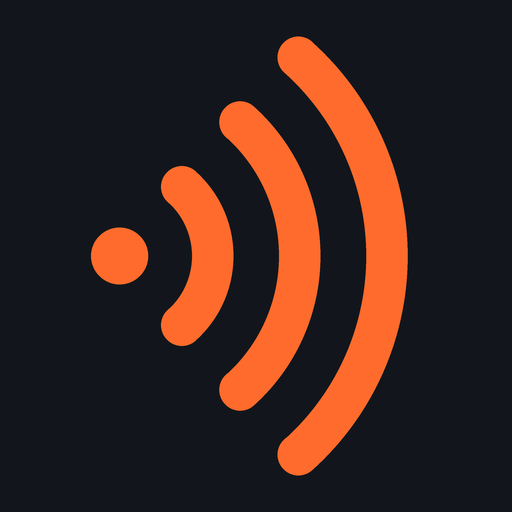
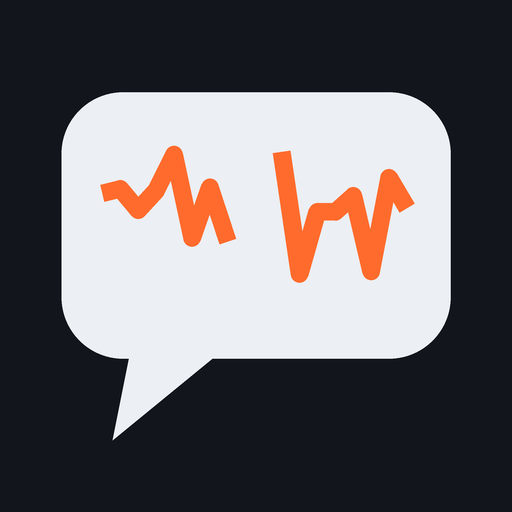
Byt namn till Dålig täckning / Bad Line och ny ikon (pratbubbla)
- Appnamn, manifest, integritetspolicy, butikstexter och guide uppdaterade
- Första ljudet heter nu Hackig linje / Choppy line
- Ikon C som appikon, ny funktionsgrafik

Claude-Session: https://claude.ai/code/session_01AwVcDu5zv7prsN5VKHxPky

diff --git a/index.html b/index.html
@@ -8,7 +8,7 @@
 <link rel="manifest" href="manifest.webmanifest">
 <link rel="icon" type="image/png" sizes="192x192" href="icons/icon-192.png">
 <link rel="apple-touch-icon" href="icons/apple-touch-icon.png">
-<title>Störsändaren</title>
+<title>Dålig täckning</title>
 <meta name="claude:viewport-fit-sides" content="cover">
 <link rel="preconnect" href="https://fonts.googleapis.com">
 <link rel="preconnect" href="https://fonts.gstatic.com" crossorigin>
@@ -162,7 +162,7 @@ h1{font-size:clamp(56px,18vw,130px);line-height:.85;white-space:nowrap;padding-r
   <header class="brand">
     <button type="button" class="about-btn" id="aboutBtn" data-i18n="about">Om</button>
     <div class="brand-text">
-      <h1><span data-i18n="t1">Stör</span><span data-i18n="t2">sändaren</span></h1>
+      <h1><span data-i18n="t1">Dålig </span><span data-i18n="t2">täckning</span></h1>
       <div class="sub">
       <div class="langs" role="group" aria-label="Språk / Language">
         <button type="button" class="flag" data-lang="sv" aria-label="Svenska" aria-pressed="true"><svg viewBox="0 0 16 10" aria-hidden="true"><rect width="16" height="10" fill="#006AA7"/><rect x="5" width="2" height="10" fill="#FECC00"/><rect y="4" width="16" height="2" fill="#FECC00"/></svg></button>
@@ -282,7 +282,7 @@ function crushCurve(steps){const n=2048,c=new Float32Array(n);for(let i=0;i<n;i+
 function clicks(out,t,n,gain=.6){for(let i=0;i<n;i++)burst(out,t+R(0,.25),.004,{type:'highpass',f:R(400,2500),gain:gain*R(.4,1),attack:.0005})}
 
 const scenes=[
- {id:'tackning',name:'Dålig täckning',what:'Linjen hackar sönder i robotgröt, digitala smällar och tvär tystnad.',spec:'Talkodek i 20 ms-ramar',
+ {id:'tackning',name:'Hackig linje',what:'Linjen hackar sönder i robotgröt, digitala smällar och tvär tystnad.',spec:'Talkodek i 20 ms-ramar',
   setup(out,nodes){return{bed:bed(out,nodes,{f:1200,q:.5,gain:.03})}},
   step(out,t,s){
     const r=Math.random(),F=.02;
@@ -519,12 +519,12 @@ function dropCall(mode,btn){
 }
 
 const I18N={
- sv:{title:'Störsändaren',eyebrow:'Soundboard för samtal du inte vill ha',t1:'Stör',t2:'sändaren',vol:'Volym',drop:'Fejka avbrott',busy:'Upptagetton',sit:'Nätverksfel',sitS:'tre stigande toner',about:'Om',aboutTitle:'Så funkar det',close:'Stäng',madeBy:'Gjord av',contact:'Kontakt',privacy:'Integritetspolicy',version:'Version',disclaimer:'Appen spelar bara upp ljud i högtalaren. Den påverkar inte telefonnätet, samtal eller andra enheter.',
+ sv:{title:'Dålig täckning',eyebrow:'Soundboard för samtal du inte vill ha',t1:'Dålig ',t2:'täckning',vol:'Volym',drop:'Fejka avbrott',busy:'Upptagetton',sit:'Nätverksfel',sitS:'tre stigande toner',about:'Om',aboutTitle:'Så funkar det',close:'Stäng',madeBy:'Gjord av',contact:'Kontakt',privacy:'Integritetspolicy',version:'Version',disclaimer:'Appen spelar bara upp ljud i högtalaren. Den påverkar inte telefonnätet, samtal eller andra enheter.',
    silent:'Tyst',pick:'Välj ett eller flera ljud',onair:'Sänder nu',mixing:n=>`Mixar ${n} ljud`,dropping:'Avbrott',breaking:'Samtalet bryts…',ch:'KANAL',live:'SÄNDER'},
- en:{title:'Call Jammer',eyebrow:"Soundboard for calls you don't want",t1:'Call ',t2:'Jammer',vol:'Volume',drop:'Fake a dropped call',busy:'Busy tone',sit:'Network error',sitS:'three rising tones',about:'About',aboutTitle:'How it works',close:'Close',madeBy:'Made by',contact:'Contact',privacy:'Privacy policy',version:'Version',disclaimer:'The app only plays sound through the speaker. It does not affect the phone network, calls or other devices.',
+ en:{title:'Bad Line',eyebrow:"Soundboard for calls you don't want",t1:'Bad ',t2:'Line',vol:'Volume',drop:'Fake a dropped call',busy:'Busy tone',sit:'Network error',sitS:'three rising tones',about:'About',aboutTitle:'How it works',close:'Close',madeBy:'Made by',contact:'Contact',privacy:'Privacy policy',version:'Version',disclaimer:'The app only plays sound through the speaker. It does not affect the phone network, calls or other devices.',
    silent:'Silent',pick:'Pick one or more sounds',onair:'On air',mixing:n=>`Mixing ${n} sounds`,dropping:'Dropping',breaking:'Call breaking up…',ch:'CHANNEL',live:'ON AIR'}
 };
-const SCENE_EN={"tackning": {"name": "Bad reception", "what": "The line breaks up into robot mush, digital bursts and sudden silence.", "spec": "Voice codec in 20 ms frames"}, "tag": {"name": "Train crash", "what": "A train crashes at full speed. Cars crumple, sheet metal folds and steel tears apart.", "spec": "4,000 tonnes of metal at 120 km/h"}, "rymd": {"name": "Space station", "what": "Digital interference and a shredded alien voice talking in the background.", "spec": "TDMA buzz 217 Hz · 3-bit voice"}, "metall": {"name": "Death metal", "what": "Violent attacks of distortion, bass blasts and screams that come and go.", "spec": "Tempo: none · Mercy: none"}, "storm": {"name": "Hailstorm", "what": "Things get smashed and torn apart at full force.", "spec": "Roof tiles · sheet metal · glass · timber"}, "bygg": {"name": "Construction site", "what": "Jackhammer, power drill, violent hammer blows and metal grinding on metal. Completely irregular.", "spec": "No rhythm. No finesse."}};
+const SCENE_EN={"tackning": {"name": "Choppy line", "what": "The line breaks up into robot mush, digital bursts and sudden silence.", "spec": "Voice codec in 20 ms frames"}, "tag": {"name": "Train crash", "what": "A train crashes at full speed. Cars crumple, sheet metal folds and steel tears apart.", "spec": "4,000 tonnes of metal at 120 km/h"}, "rymd": {"name": "Space station", "what": "Digital interference and a shredded alien voice talking in the background.", "spec": "TDMA buzz 217 Hz · 3-bit voice"}, "metall": {"name": "Death metal", "what": "Violent attacks of distortion, bass blasts and screams that come and go.", "spec": "Tempo: none · Mercy: none"}, "storm": {"name": "Hailstorm", "what": "Things get smashed and torn apart at full force.", "spec": "Roof tiles · sheet metal · glass · timber"}, "bygg": {"name": "Construction site", "what": "Jackhammer, power drill, violent hammer blows and metal grinding on metal. Completely irregular.", "spec": "No rhythm. No finesse."}};
 scenes.forEach(sc=>{sc.i18n={sv:{name:sc.name,what:sc.what,spec:sc.spec},en:SCENE_EN[sc.id]}});
 let lang='sv';
 try{const v=localStorage.getItem('lang');if(v==='sv'||v==='en')lang=v;else if(!/^sv\b/i.test(navigator.language||'sv'))lang='en'}catch(e){}
@@ -595,13 +595,13 @@ document.querySelectorAll('.dropbtn').forEach(b=>b.addEventListener('click',()=>
 document.getElementById('vol').addEventListener('input',e=>{if(master)master.gain.setTargetAtTime(+e.target.value,ctx.currentTime,.02)});
 
 // Stretch the eyebrow line to exactly the width of the big title
-// Scale STÖRSÄNDAREN to fill the banner width beside the About button
+// Scale the app name to fill the banner width beside the About button
 function fitEyebrow(){
   const h=document.querySelector('h1'),box=document.querySelector('.brand-text'),om=document.getElementById('aboutBtn');if(!h||!box)return;
   const omW=om?om.offsetWidth+12:0;h.style.setProperty('--om-w',omW+'px');
   h.style.fontSize='100px';
   const r=document.createRange();r.selectNodeContents(h);const tw=r.getBoundingClientRect().width;
-  const avail=box.clientWidth-omW;if(tw>0)h.style.fontSize=Math.min(170,Math.max(40,100*avail/tw)).toFixed(1)+'px';
+  const avail=box.clientWidth-omW;if(tw>0)h.style.fontSize=Math.min(170,Math.max(24,100*avail/tw)).toFixed(1)+'px';
 }
 setLang(lang);
 fitEyebrow();window.addEventListener('resize',fitEyebrow);

diff --git a/integritet.html b/integritet.html
@@ -3,7 +3,7 @@
 <head>
 <meta charset="utf-8">
 <meta name="viewport" content="width=device-width, initial-scale=1">
-<title>Störsändaren – integritetspolicy</title>
+<title>Dålig täckning – integritetspolicy</title>
 <style>
 :root{--bg:#F6F7F8;--ink:#18202B;--muted:#5A6472;--line:#C8CED6;--accent:#B83C0C}
 @media (prefers-color-scheme: dark){:root{--bg:#12161C;--ink:#E6E9ED;--muted:#8E98A5;--line:#2C3541;--accent:#FF6B2C;color-scheme:dark}}
@@ -26,11 +26,11 @@ ul{padding-left:20px}
 <nav><a href="#sv">Svenska</a><a href="#en">English</a></nav>
 
 <section id="sv" lang="sv">
-<h1>Integritetspolicy för Störsändaren</h1>
+<h1>Integritetspolicy för Dålig täckning</h1>
 <p class="meta">Gäller från 15 oktober 2026 · Utvecklare: Cajsa Gustafsson</p>
 
 <h2>Kort sagt</h2>
-<p>Störsändaren samlar inte in några personuppgifter. Det finns inget konto, ingen inloggning, ingen reklam och ingen spårning.</p>
+<p>Dålig täckning samlar inte in några personuppgifter. Det finns inget konto, ingen inloggning, ingen reklam och ingen spårning.</p>
 
 <h2>Vad appen gör</h2>
 <p>Appen skapar störningsljud direkt i telefonen och spelar upp dem i högtalaren. Den använder inte mikrofonen, kameran, kontakter, platsen eller telefonens samtalsfunktioner. Den påverkar inte telefonnätet, samtal eller andra enheter.</p>
@@ -62,11 +62,11 @@ ul{padding-left:20px}
 <hr>
 
 <section id="en" lang="en">
-<h1>Privacy policy for Call Jammer (Störsändaren)</h1>
+<h1>Privacy policy for Bad Line (Dålig täckning)</h1>
 <p class="meta">Effective 15 October 2026 · Developer: Cajsa Gustafsson</p>
 
 <h2>In short</h2>
-<p>Call Jammer does not collect any personal data. There is no account, no sign-in, no ads and no tracking.</p>
+<p>Bad Line does not collect any personal data. There is no account, no sign-in, no ads and no tracking.</p>
 
 <h2>What the app does</h2>
 <p>The app generates interference sounds on the phone and plays them through the speaker. It does not use the microphone, camera, contacts, location or the phone's calling features. It does not affect the phone network, calls or other devices.</p>

diff --git a/butik/BUTIKSTEXTER.md b/butik/BUTIKSTEXTER.md
@@ -6,20 +6,20 @@ Klistra in i Play Console under **Butiksnärvaro → Huvudbutiksinformation**. S
 
 **Appnamn** (max 30 tecken)
 ```
-Störsändaren
+Dålig täckning
 ```
 
 **Kort beskrivning** (max 80 tecken)
 ```
-Spela störningsljud under samtal – dålig täckning, tågkrasch, hagel och mer.
+Spela störningsljud under samtal – hackig linje, tågkrasch, hagel och mer.
 ```
 
 **Fullständig beskrivning** (max 4000 tecken)
 ```
-Någon ringer som du inte orkar prata med? Störsändaren är en soundboard med störningsljud som du spelar i bakgrunden, så att samtalet låter omöjligt att föra.
+Någon ringer som du inte orkar prata med? Dålig täckning är en soundboard med störningsljud som du spelar i bakgrunden, så att samtalet låter omöjligt att föra.
 
 Sex ljud som skapas live, så de aldrig låter likadant två gånger:
-• Dålig täckning – linjen hackar sönder i robotgröt, digitala smällar och tvär tystnad
+• Hackig linje – linjen hackar sönder i robotgröt, digitala smällar och tvär tystnad
 • Tågkrasch – 4000 ton metall i 120 km/h, oavbrutet
 • Rymdstation – digitala störningar och en sönderhackad utomjordisk röst
 • Dödsmetall – våldsamma attacker av distorsion utan takt och utan nåd
@@ -30,7 +30,7 @@ Mixa flera ljud samtidigt. Ljuden växlar oregelbundet mellan starkt, svagt och 
 
 Fejka avbrott: avsluta med upptagetton eller nätverksfelston, och lägg på.
 
-Så använder du den: håll telefonen med samtalet nära högtalaren på den enhet där Störsändaren spelar, eller sätt samtalet på högtalare. Ljudet är förstärkt för att höras tydligt i en annan telefon.
+Så använder du den: håll telefonen med samtalet nära högtalaren på den enhet där Dålig täckning spelar, eller sätt samtalet på högtalare. Ljudet är förstärkt för att höras tydligt i en annan telefon.
 
 • Ingen reklam
 • Inget konto
@@ -38,14 +38,14 @@ Så använder du den: håll telefonen med samtalet nära högtalaren på den enh
 • Fungerar utan internet
 • Svenska och engelska
 
-Störsändaren är en humorapp. Den spelar bara upp ljud i högtalaren och påverkar inte telefonnätet, samtal eller andra enheter.
+Dålig täckning är en humorapp. Den spelar bara upp ljud i högtalaren och påverkar inte telefonnätet, samtal eller andra enheter.
 ```
 
 ## English (en-US)
 
 **App name** (max 30 characters)
 ```
-Call Jammer: Fake Bad Signal
+Bad Line: Fake Bad Signal
 ```
 
 **Short description** (max 80 characters)
@@ -55,10 +55,10 @@ Play noise during calls – bad reception, train crash, hailstorm and more.
 
 **Full description** (max 4000 characters)
 ```
-Someone calling you don't feel like talking to? Call Jammer is a soundboard of interference sounds you play in the background, so the call sounds impossible to hold.
+Someone calling you don't feel like talking to? Bad Line is a soundboard of interference sounds you play in the background, so the call sounds impossible to hold.
 
 Six sounds generated live, so they never sound the same twice:
-• Bad reception – the line breaks up into robot mush, digital bursts and sudden silence
+• Choppy line – the line breaks up into robot mush, digital bursts and sudden silence
 • Train crash – 4,000 tonnes of metal at 120 km/h, nonstop
 • Space station – digital interference and a shredded alien voice
 • Death metal – violent attacks of distortion with no tempo and no mercy
@@ -69,7 +69,7 @@ Mix several sounds at once. They shift irregularly between loud, quiet and silen
 
 Fake a dropped call: finish with a busy tone or a network error tone, then hang up.
 
-How to use it: hold the phone with the call close to the speaker of the device playing Call Jammer, or put the call on speaker. The sound is boosted to come through clearly on another phone.
+How to use it: hold the phone with the call close to the speaker of the device playing Bad Line, or put the call on speaker. The sound is boosted to come through clearly on another phone.
 
 • No ads
 • No account
@@ -77,7 +77,7 @@ How to use it: hold the phone with the call close to the speaker of the device p
 • Works offline
 • English and Swedish
 
-Call Jammer is a humor app. It only plays sound through the speaker and does not affect the phone network, calls or other devices.
+Bad Line is a humor app. It only plays sound through the speaker and does not affect the phone network, calls or other devices.
 ```
 
 ## Övriga uppgifter

diff --git a/PUBLICERA.md b/PUBLICERA.md
@@ -1,4 +1,4 @@
-# Så ger du ut Störsändaren på Google Play
+# Så ger du ut Dålig täckning på Google Play
 
 Appen är en webbapp. Den läggs ut gratis på GitHub Pages, och PWABuilder gör en Play-fil (`.aab`) som öppnar den som en vanlig app i helskärm. Du behöver ingen Android Studio.
 
@@ -30,8 +30,8 @@ All kod blir då synlig för alla.
 2. Välj **Package for stores → Android → Google Play**.
 3. Fyll i:
    - **Package ID:** `io.github.cajsag73.storsandaren` (går inte att ändra senare)
-   - **App name:** `Störsändaren`
-   - **Launcher name:** `Störsändaren`
+   - **App name:** `Dålig täckning`
+   - **Launcher name:** `Dålig täckning`
    - **Version:** `1.0.0`, **Version code:** `1`
    - **Signing key:** *Create new*
 4. Ladda ner zip-filen.
@@ -50,7 +50,7 @@ Android visar ett adressfält överst i appen tills det har bekräftat att webbp
 En mall finns i `.well-known/assetlinks.json` i det här repot.
 
 ## 6. Skapa appen i Play Console
-1. **Skapa app**. Namn: `Störsändaren`. Standardspråk: svenska. Typ: app. Pris: gratis.
+1. **Skapa app**. Namn: `Dålig täckning`. Standardspråk: svenska. Typ: app. Pris: gratis.
 2. Gå igenom **Appinnehåll**:
 
 | Fråga | Svar |
@@ -84,6 +84,6 @@ När produktionsåtkomsten är godkänd skapar du en produktionsversion med samm
 - **Namn, ikon eller paket-ID:** kräver en ny `.aab` från PWABuilder, signerad med **samma** nyckel och med högre version code.
 
 ## Risker vid granskningen
-- **Namnet.** "Störsändare" och "jammer" betyder riktiga störsändare, och de är olagliga. Granskaren kan tro att appen stör mobilnätet. Beskrivningen och Om-rutan säger därför tydligt att den bara spelar ljud. Om appen nekas är ett säkrare namn till exempel "Störsändaren – fejka dålig täckning" eller "Bad Line".
+- **Namnet** byttes från Störsändaren till Dålig täckning, eftersom "störsändare" och "jammer" kunde få granskaren att tro att appen stör mobilnätet. Adressen och paket-ID:t innehåller fortfarande `storsandaren`, men det syns inte för användarna.
 - **Vilseledande beteende.** Google tillåter inte appar som lovar något de inte kan göra. Därför ska butikstexten alltid säga att det är ljud i högtalaren, inte riktiga störningar.
 - **Typsnitten** hämtas från Google Fonts. Det står i integritetspolicyn. Vill du att appen inte ska kontakta någon alls kan typsnittsfilerna (Big Shoulders Display och IBM Plex, fri licens) laddas ner och läggas i repot.

diff --git a/README.md b/README.md
@@ -1,9 +1,9 @@
-# Störsändaren
+# Dålig täckning
 Soundboard för samtal du inte vill ha.
 
 Sex störningsljud som skapas live i webbläsaren med Web Audio, utan ljudfiler:
 
-- **Dålig täckning** – linjen hackar sönder i robotgröt, digitala smällar och tvär tystnad
+- **Hackig linje** – linjen hackar sönder i robotgröt, digitala smällar och tvär tystnad
 - **Tågkrasch** – ett tåg som kraschar i full fart, oavbrutet våld och skrynklande plåt
 - **Rymdstation** – digitala störningar och en sönderhackad utomjordisk röst
 - **Dödsmetall** – våldsamma attacker av distorsion utan takt
@@ -15,7 +15,7 @@ Tryck på flera för att mixa. Ljuden växlar oregelbundet mellan starkt, svagt 
 Ljudet går genom en kompressor och förstärkning anpassad för mobilhögtalare, så att det hörs tydligt i en annan telefon.
 
 ## Språk
-Svenska och engelska (Call Jammer) finns i samma app. Byt med flaggorna under rubriken. Valet sparas, och första gången väljs språk efter telefonens inställning.
+Svenska och engelska (Bad Line) finns i samma app. Byt med flaggorna under rubriken. Valet sparas, och första gången väljs språk efter telefonens inställning.
 
 ## Publicering
 Se [PUBLICERA.md](PUBLICERA.md) för steg för steg till Google Play. Butikstexter och grafik finns i `butik/`. Integritetspolicyn ligger i `integritet.html`.
